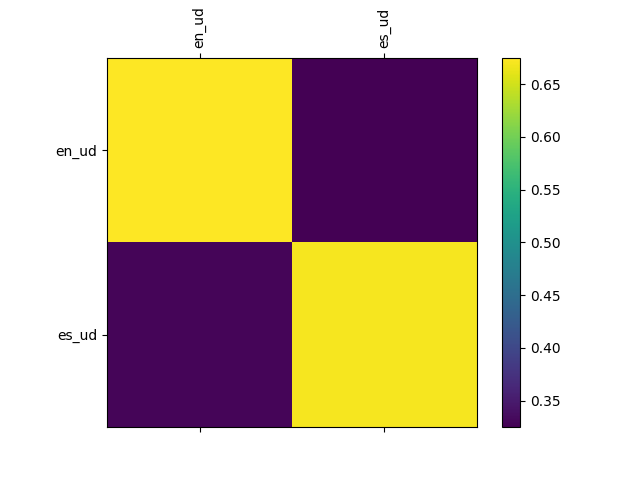
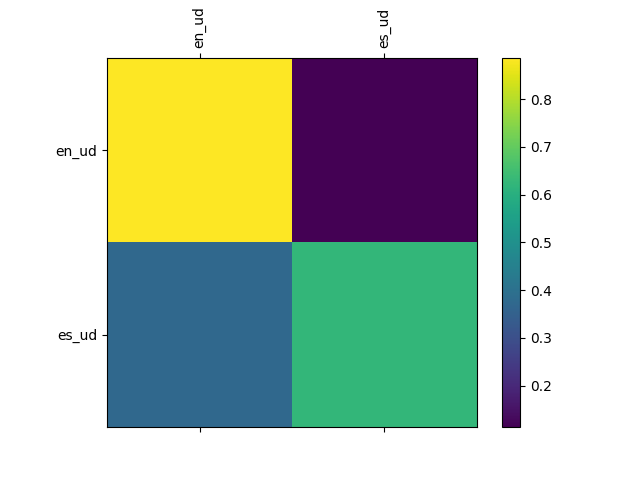
Train model with data from europarl dataset

diff --git a/rnn_pipeline.py b/rnn_pipeline.py
@@ -10,30 +10,44 @@ from utils import time_since
 
 
 def main():
-    raw_data, all_categories = read_data(
-                            ['data/training data/tagged_sentences_1000sents.csv'],
-                            ['en_ud', 'es_ud'])
+    categories = ['en_ud', 'es_ud']
+    raw_data = read_data(
+        ['data/training data/europarl/english_spanish_10_tagged.csv',
+         'data/training data/europarl/english_spanish_11_tagged.csv',
+         'data/training data/europarl/english_spanish_12_tagged.csv',
+         'data/training data/europarl/english_spanish_13_tagged.csv',
+         'data/training data/europarl/english_spanish_14_tagged.csv',
+         'data/training data/europarl/english_spanish_15_tagged.csv',
+         'data/training data/europarl/english_spanish_16_tagged.csv',
+         'data/training data/europarl/english_spanish_17_tagged.csv',
+         'data/training data/europarl/english_spanish_18_tagged.csv',
+         'data/training data/europarl/english_spanish_19_tagged.csv',
+         'data/training data/europarl/english_spanish_20_tagged.csv'],
+        categories)
 
     all_tags = get_all_tags(['data/training data/es_ud_0_vocab.csv',
                              'data/training data/en_ud_0_vocab.csv'])
     data = Data(raw_data, all_tags)
-    n_hidden = 128
-    rnn = RNN(len(all_tags), n_hidden, len(all_categories))
+    n_hidden = 256
+    rnn = RNN(len(all_tags), n_hidden, len(categories))
     n_iters = data.size
-    print_every = 50
-    plot_every = 10
-    all_losses = run_training(rnn, data, all_categories,
+    print_every = 5000
+    plot_every = 1000
+    all_losses = run_training(rnn, data, categories,
                               n_iters, print_every, plot_every)
     losses(all_losses, 'all_losses.png')
-    data = Data(raw_data, all_tags)
-    confusion = build_confusion_data(rnn, all_categories, data)
-    confusion_matrix(confusion, all_categories, 'confusion_matrix.png')
+    test_data = read_data(
+        ['data/training data/tagged_sentences_1000sents.csv'],
+        categories)
+    data = Data(test_data, all_tags)
+    confusion = build_confusion_data(rnn, categories, data)
+    confusion_matrix(confusion, categories, 'confusion_matrix.png')
 
 
-def run_training(rnn, data, all_categories, n_iters,
+def run_training(rnn, data, categories, n_iters,
                  print_every, plot_every):
     start = time.time()
-    learning_rate = 0.005
+    learning_rate = 0.0002
     criterion = nn.NLLLoss()
     current_loss = 0
     all_losses = []
@@ -46,7 +60,7 @@ def run_training(rnn, data, all_categories, n_iters,
 
         # Print iter number, loss, name and guess
         if iter % print_every == 0:
-            guess, guess_i = category_from_output(output, all_categories)
+            guess, guess_i = category_from_output(output, categories)
             correct = '✓' if guess == category else '✗ (%s)' % category
             print('%d %d%% (%s) %.4f %s / %s %s' % (iter, iter / n_iters * 100,
                                                     time_since(start), loss,
@@ -59,8 +73,8 @@ def run_training(rnn, data, all_categories, n_iters,
     return all_losses
 
 
-def build_confusion_data(rnn, all_categories, data):
-    n_categories = len(all_categories)
+def build_confusion_data(rnn, categories, data):
+    n_categories = len(categories)
     # Keep track of correct guesses in a confusion matrix
     confusion = torch.zeros(n_categories, n_categories)
     n_confusion = data.size
@@ -70,8 +84,8 @@ def build_confusion_data(rnn, all_categories, data):
         category, sentence, category_tensor, sentence_tensor = \
             data.random_training_datapoint()
         output = rnn.evaluate(sentence_tensor)
-        guess, guess_i = category_from_output(output, all_categories)
-        category_i = all_categories.index(category)
+        guess, guess_i = category_from_output(output, categories)
+        category_i = categories.index(category)
         confusion[category_i][guess_i] += 1
 
     # Normalize by dividing every row by its sum
